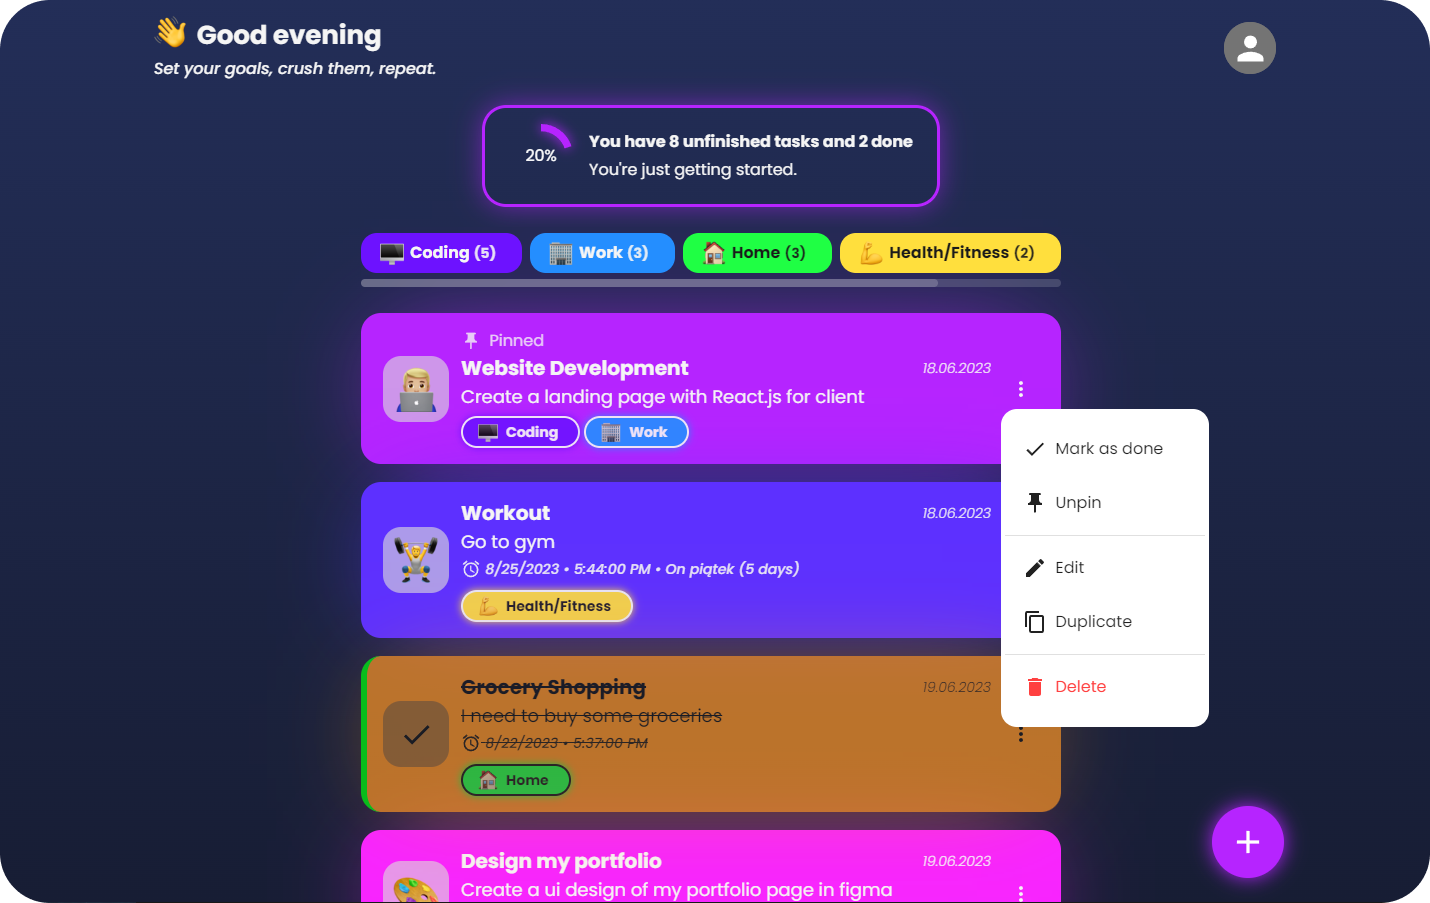
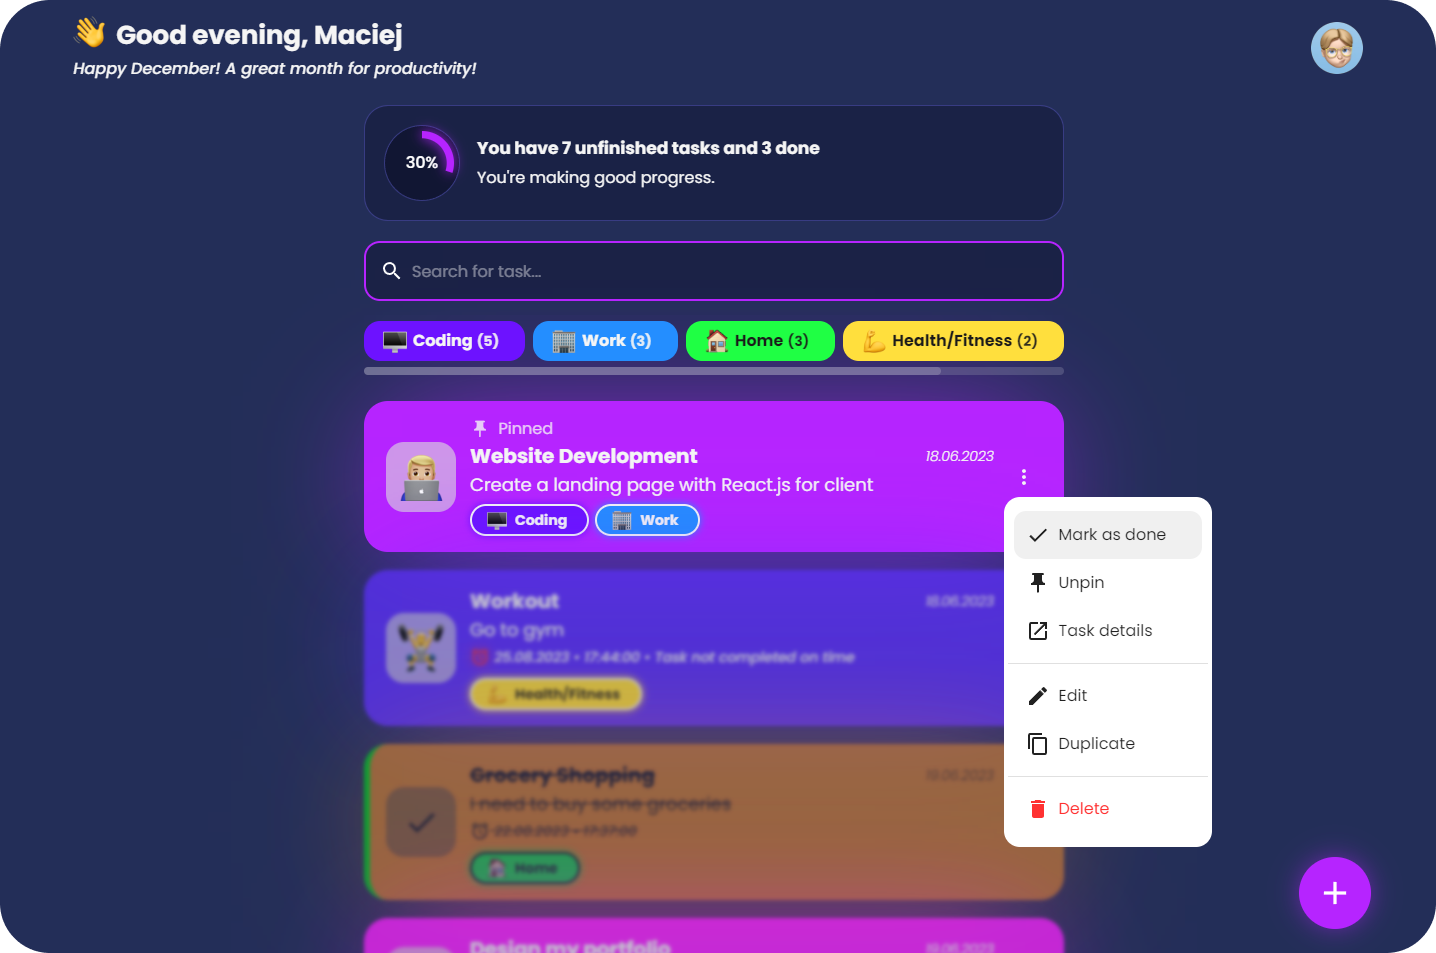
Add feature: Task Reading Aloud

diff --git a/src/components/Settings.tsx b/src/components/Settings.tsx
@@ -28,6 +28,7 @@ interface SettingsProps extends UserProps {
 export const SettingsDialog = ({ open, onClose, user, setUser }: SettingsProps) => {
   const [settings, setSettings] = useState<AppSettings>(user.settings[0]);
   const [lastStyle] = useState<EmojiStyle>(user.emojisStyle);
+  const [availableVoices, setAvailableVoices] = useState<SpeechSynthesisVoice[]>([]);
 
   const isOnline = useOnlineStatus();
 
@@ -39,9 +40,33 @@ export const SettingsDialog = ({ open, onClose, user, setUser }: SettingsProps) 
     { label: "Google", style: EmojiStyle.GOOGLE },
     { label: "Native", style: EmojiStyle.NATIVE },
   ];
+
+  const getAvailableVoices = () => {
+    const voices = window.speechSynthesis.getVoices();
+    const voiceInfoArray = [];
+
+    for (const voice of voices) {
+      if (voice.default) {
+        console.log(voice);
+      }
+      voiceInfoArray.push(voice);
+    }
+
+    return voiceInfoArray;
+  };
+
+  // Ensure the voices are loaded before calling getAvailableVoices
+  window.speechSynthesis.onvoiceschanged = () => {
+    const availableVoices = getAvailableVoices();
+    setAvailableVoices(availableVoices);
+    console.log(availableVoices);
+  };
+
   // Handler for updating individual setting options
   const handleSettingChange =
     (name: keyof AppSettings) => (event: React.ChangeEvent<HTMLInputElement>) => {
+      // cancel read aloud
+      name === "enableReadAloud" && window.speechSynthesis.cancel();
       const updatedSettings = {
         ...settings,
         [name]: event.target.checked,
@@ -54,12 +79,32 @@ export const SettingsDialog = ({ open, onClose, user, setUser }: SettingsProps) 
     };
 
   // Handler for updating the selected emoji style
-  const handleEmojiStyleChange = (event: SelectChangeEvent<EmojiStyle>) => {
+  const handleEmojiStyleChange = (event: SelectChangeEvent<unknown>) => {
     const selectedEmojiStyle = event.target.value as EmojiStyle;
     setUser((prevUser) => ({
       ...prevUser,
       emojisStyle: selectedEmojiStyle,
     }));
+  };
+  const handleVoiceChange = (event: SelectChangeEvent<unknown>) => {
+    // Handle the selected voice
+    const selectedVoice = availableVoices.find((voice) => voice.name === event.target.value);
+
+    // Handle your logic with the selected voice (e.g., updating user settings)
+    if (selectedVoice) {
+      console.log("Selected Voice:", selectedVoice);
+
+      // Update the user settings with the selected voice
+      setUser((prevUser) => ({
+        ...prevUser,
+        settings: [
+          {
+            ...prevUser.settings[0],
+            voice: selectedVoice.name,
+          },
+        ],
+      }));
+    }
   };
 
   return (
@@ -82,7 +127,7 @@ export const SettingsDialog = ({ open, onClose, user, setUser }: SettingsProps) 
         <FormGroup>
           <FormControl>
             <FormLabel>Emoji Settings</FormLabel>
-            <Select
+            <StyledSelect
               value={user.emojisStyle}
               onChange={handleEmojiStyleChange}
               sx={{
@@ -135,7 +180,7 @@ export const SettingsDialog = ({ open, onClose, user, setUser }: SettingsProps) 
                   {style.label}
                 </MenuItem>
               ))}
-            </Select>
+            </StyledSelect>
           </FormControl>
         </FormGroup>
 
@@ -164,6 +209,18 @@ export const SettingsDialog = ({ open, onClose, user, setUser }: SettingsProps) 
         </FormGroup>
         <FormGroup>
           <FormControlLabel
+            sx={{ opacity: settings.enableReadAloud ? 1 : 0.8 }}
+            control={
+              <Switch
+                checked={settings.enableReadAloud}
+                onChange={handleSettingChange("enableReadAloud")}
+              />
+            }
+            label="Enable Read Aloud"
+          />
+        </FormGroup>
+        <FormGroup>
+          <FormControlLabel
             sx={{ opacity: settings.doneToBottom ? 1 : 0.8 }}
             control={
               <Switch
@@ -174,6 +231,42 @@ export const SettingsDialog = ({ open, onClose, user, setUser }: SettingsProps) 
             label="Move Done Tasks To Bottom"
           />
         </FormGroup>
+
+        {user.settings[0].enableReadAloud && (
+          <FormGroup>
+            <FormControl>
+              <FormLabel>Voice Settings</FormLabel>
+
+              {availableVoices.length !== 0 ? (
+                <StyledSelect
+                  // Set the value to the first voice in the availableVoices array
+                  value={user.settings[0].voice}
+                  // Handle the voice selection change
+                  onChange={handleVoiceChange}
+                  sx={{
+                    width: "300px",
+                    borderRadius: "18px",
+                    color: "black",
+                    m: "8px 0",
+                  }}
+                >
+                  {/* Map over available voices to create MenuItem components */}
+                  {availableVoices.map((voice) => (
+                    <MenuItem key={voice.name} value={voice.name}>
+                      {voice.name} &nbsp;
+                      {voice.default && <span style={{ fontWeight: 600 }}>Default</span>}
+                    </MenuItem>
+                  ))}
+                </StyledSelect>
+              ) : (
+                <NoVoiceStyles>
+                  There are no voice styles available{" "}
+                  {/* <Emoji emojiStyle={user.emojisStyle} unified="2639-fe0f" size={24} /> */}
+                </NoVoiceStyles>
+              )}
+            </FormControl>
+          </FormGroup>
+        )}
       </Container>
       <DialogActions>
         <DialogBtn onClick={onClose}>Close</DialogBtn>
@@ -190,4 +283,19 @@ const Container = styled.div`
   user-select: none;
   margin: 0 18px;
   gap: 6px;
+`;
+
+const StyledSelect = styled(Select)`
+  width: 300px;
+  border-radius: 18px;
+  color: black;
+  margin: 8px 0;
+`;
+
+const NoVoiceStyles = styled.p`
+  display: flex;
+  align-items: center;
+  gap: 6px;
+  opacity: 0.8;
+  font-weight: 500;
 `;

diff --git a/src/components/Tasks.tsx b/src/components/Tasks.tsx
@@ -241,6 +241,28 @@ export const Tasks = ({ user, setUser }: UserProps): JSX.Element => {
     }
   };
 
+  const handleReadAloud = () => {
+    const selectedTask = user.tasks.find((task) => task.id === selectedTaskId);
+    const voices = window.speechSynthesis.getVoices();
+    const voiceName = voices.find((voice) => voice.name === user.settings[0].voice);
+
+    const utterThis: SpeechSynthesisUtterance = new SpeechSynthesisUtterance(
+      ` ${selectedTask?.name}. ${
+        selectedTask?.description ? selectedTask.description : ""
+      }. Date: ${formatDate(new Date(selectedTask?.date || ""))}`
+    );
+
+    if (voiceName) {
+      utterThis.voice = voiceName;
+    }
+
+    utterThis.volume = 0.8;
+
+    window.speechSynthesis.speak(utterThis);
+    // Close the menu
+    setAnchorEl(null);
+  };
+
   const [categories, setCategories] = useState<Category[] | undefined>(undefined);
   const [selectedCatId, setSelectedCatId] = useState<number | undefined>(undefined);
 
@@ -282,31 +304,6 @@ export const Tasks = ({ user, setUser }: UserProps): JSX.Element => {
     setCategoryCounts(counts);
   }, [user.tasks]);
 
-  // const scrollContainerRef = useRef<HTMLDivElement>(null);
-  // const [isDragging, setIsDragging] = useState(false);
-  // const [startX, setStartX] = useState(0);
-  // const [scrollLeft, setScrollLeft] = useState(0);
-
-  // const handleMouseDown = (event: React.MouseEvent) => {
-  //   if (scrollContainerRef.current) {
-  //     setIsDragging(true);
-  //     setStartX(event.pageX - scrollContainerRef.current.offsetLeft);
-  //     setScrollLeft(scrollContainerRef.current.scrollLeft);
-  //   }
-  // };
-
-  // const handleMouseMove = (event: React.MouseEvent) => {
-  //   if (!isDragging || !scrollContainerRef.current) return;
-  //   event.preventDefault();
-  //   const x = event.pageX - scrollContainerRef.current.offsetLeft;
-  //   const walk = (x - startX) * 2; // Adjust the scrolling speed as needed
-  //   scrollContainerRef.current.scrollLeft = scrollLeft - walk;
-  // };
-
-  // const handleMouseUp = () => {
-  //   setIsDragging(false);
-  // };
-
   const [search, setSearch] = useState<string>("");
   const highlightMatchingText = (text: string, search: string): ReactNode => {
     if (!search) {
@@ -335,6 +332,7 @@ export const Tasks = ({ user, setUser }: UserProps): JSX.Element => {
         handleDeleteTask={handleDeleteTask}
         handleDuplicateTask={handleDuplicateTask}
         handleCloseMoreMenu={handleCloseMoreMenu}
+        handleReadAloud={handleReadAloud}
       />
       <TasksContainer>
         {user.tasks.length > 0 && (
@@ -346,8 +344,6 @@ export const Tasks = ({ user, setUser }: UserProps): JSX.Element => {
             onChange={(e) => {
               setSearch(e.target.value);
             }}
-            // error={reorderTasks(user.tasks).length === 0 && user.tasks.length > 0}
-            // type="search"
             InputProps={{
               startAdornment: (
                 <InputAdornment position="start">

diff --git a/src/App.tsx b/src/App.tsx
@@ -15,17 +15,44 @@ function App() {
   const isMobile = useResponsiveDisplay();
   // Initialize user properties if they are undefined
   useEffect(() => {
-    if (user.categories === undefined) {
-      setUser({ ...user, categories: defaultUser.categories });
+    // if (user.categories === undefined) {
+    //   setUser({ ...user, categories: defaultUser.categories });
+    // }
+    // if (
+    //   user.settings === undefined ||
+    //   user.settings[0].enableCategories === undefined ||
+    //   user.settings[0].enableGlow === undefined ||
+    //   user.settings[0] === undefined ||
+    //   user.settings[0] === undefined
+    // ) {
+    //   setUser({ ...user, settings: defaultUser.settings });
+    // }
+    if (user.settings[0].enableReadAloud === undefined) {
+      setUser({
+        ...user,
+        settings: [
+          {
+            ...user.settings[0],
+            enableReadAloud: defaultUser.settings[0].enableReadAloud,
+          },
+        ],
+      });
     }
-    if (
-      user.settings === undefined ||
-      user.settings[0].enableCategories === undefined ||
-      user.settings[0].enableGlow === undefined ||
-      user.settings[0] === undefined
-    ) {
-      setUser({ ...user, settings: defaultUser.settings });
+    if (user.settings[0].voice === undefined) {
+      setUser({
+        ...user,
+        settings: [
+          {
+            ...user.settings[0],
+            voice: defaultUser.settings[0].voice,
+          },
+        ],
+      });
     }
+
+    // if (user.settings[0].enableReadAloud == undefined) {
+    //   setUser({ ...user, settings: defaultUser.settings });
+    // }
   }, []);
   const userProps = { user, setUser };
 

diff --git a/src/components/TaskMenu.tsx b/src/components/TaskMenu.tsx
@@ -1,4 +1,12 @@
-import { ContentCopy, Delete, Done, Edit, Launch, PushPin } from "@mui/icons-material";
+import {
+  ContentCopy,
+  Delete,
+  Done,
+  Edit,
+  Launch,
+  PushPin,
+  RecordVoiceOver,
+} from "@mui/icons-material";
 import { User } from "../types/user";
 import { Divider, Menu, MenuItem } from "@mui/material";
 import { BottomSheet } from "react-spring-bottom-sheet";
@@ -21,6 +29,7 @@ interface TaskMenuProps {
   handleDeleteTask: () => void;
   handleDuplicateTask: () => void;
   handleCloseMoreMenu: () => void;
+  handleReadAloud: () => void;
 }
 
 export const TaskMenu = ({
@@ -33,6 +42,7 @@ export const TaskMenu = ({
   handleDeleteTask,
   handleDuplicateTask,
   handleCloseMoreMenu,
+  handleReadAloud,
 }: TaskMenuProps) => {
   const n = useNavigate();
   const redirectToTaskDetails = () => {
@@ -65,6 +75,14 @@ export const TaskMenu = ({
       <StyledMenuItem onClick={redirectToTaskDetails}>
         <Launch /> &nbsp; Task details
       </StyledMenuItem>
+      {user.settings[0].enableReadAloud && (
+        <StyledMenuItem
+          onClick={handleReadAloud}
+          disabled={window.speechSynthesis.speaking || window.speechSynthesis.pending}
+        >
+          <RecordVoiceOver /> &nbsp; Read Aloud
+        </StyledMenuItem>
+      )}
       <Divider />
       <StyledMenuItem
         onClick={() => {

diff --git a/src/constants/defaultUser.ts b/src/constants/defaultUser.ts
@@ -15,6 +15,8 @@ export const defaultUser: User = {
       enableCategories: true,
       doneToBottom: false,
       enableGlow: true,
+      enableReadAloud: true,
+      voice: "Google UK English Male",
     },
   ],
   categories: [

diff --git a/src/types/user.ts b/src/types/user.ts
@@ -57,6 +57,8 @@ export interface AppSettings {
   enableCategories: boolean;
   doneToBottom: boolean;
   enableGlow: boolean;
+  enableReadAloud: boolean;
+  voice: string;
 }
 
 /**

diff --git a/README.md b/README.md
@@ -18,6 +18,7 @@
 - **It has a clean and responsive design**, ensuring a smooth user experience across different devices.
 - **Customizable Categories**: Users can create and personalize task categories to suit their preferences.
 - **Search Tasks**: Search functionality allows you to filter tasks by name or description, making it easy to find what you need.
+- **Task Reading Aloud**: Option to have tasks read aloud, with a selection of voices to choose from.
 - **Import/Export Tasks**: Users can now import and export tasks to/from JSON files. This feature allows users to back up their tasks or transfer them to other devices easily.
 - **Works offline**: This app is a Progressive Web App (PWA), which means it can be installed on your device and used even when you're offline. You can access and manage your tasks without an internet connection, ensuring uninterrupted productivity.
 
